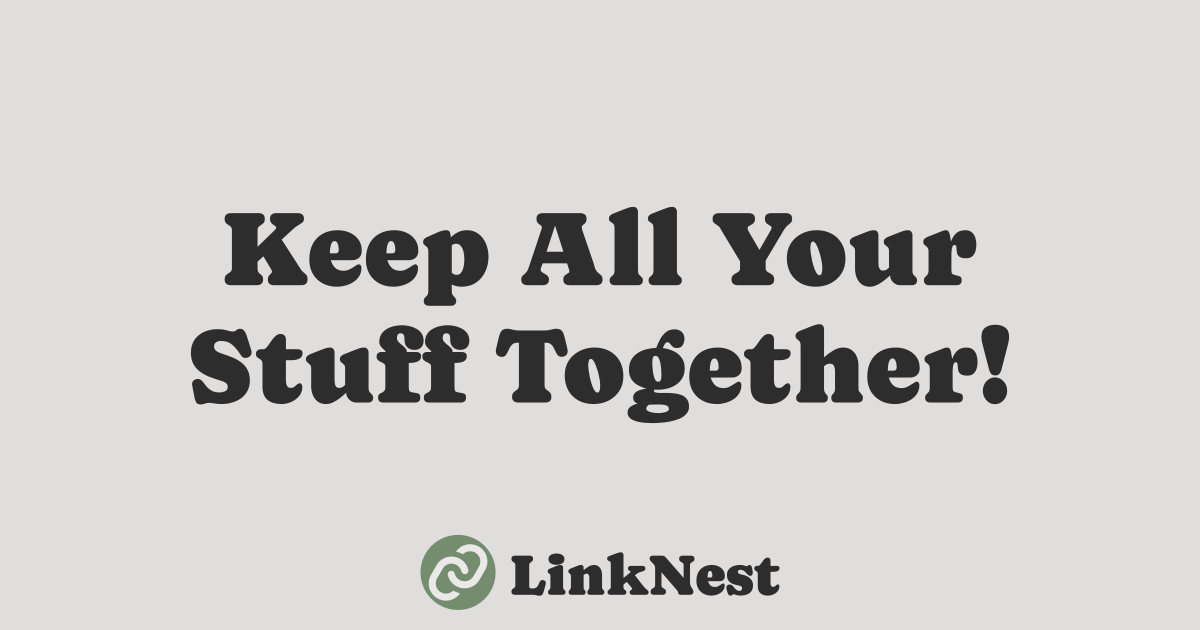
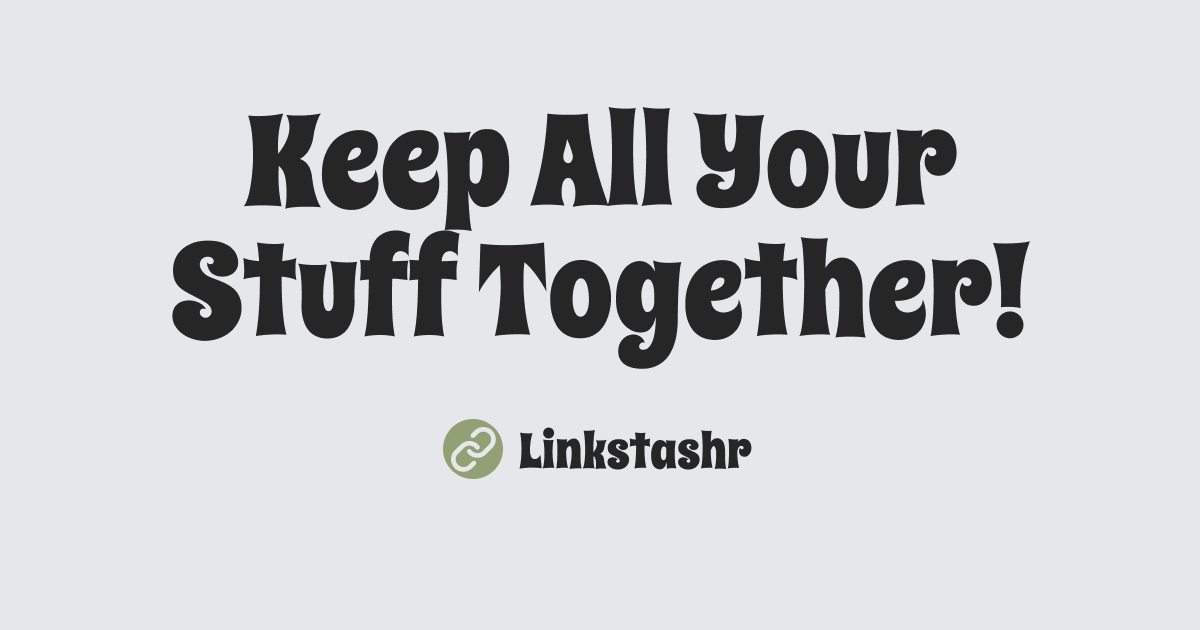
chore(seo): update brand assets

Changed region(s): [[0.1233, 0.1508, 0.8633, 0.7841], [0.3392, 0.8444, 0.6475, 0.9651]]

diff --git a/app/components/logo.vue b/app/components/logo.vue
@@ -1,6 +1,6 @@
 <template>
   <nuxt-link to="/" class="flex flex-row items-center gap-2">
-    <img src="/assets/logo.png" alt="Logo" width="30">
+    <img src="/assets/symbol.png" alt="Logo" width="30">
     <img :src="themeTitle" alt="Wordmark" width="100">
   </nuxt-link>
 </template>

diff --git a/app/pages/brand.vue b/app/pages/brand.vue
@@ -78,7 +78,7 @@
 </template>
 
 <script setup lang="ts">
-import logoImage from "~/assets/logo.png"
+import logoImage from "~/assets/symbol.png"
 import logoDark from "~/assets/wordmark-dark.png"
 import logoLight from "~/assets/wordmark-light.png"
 
